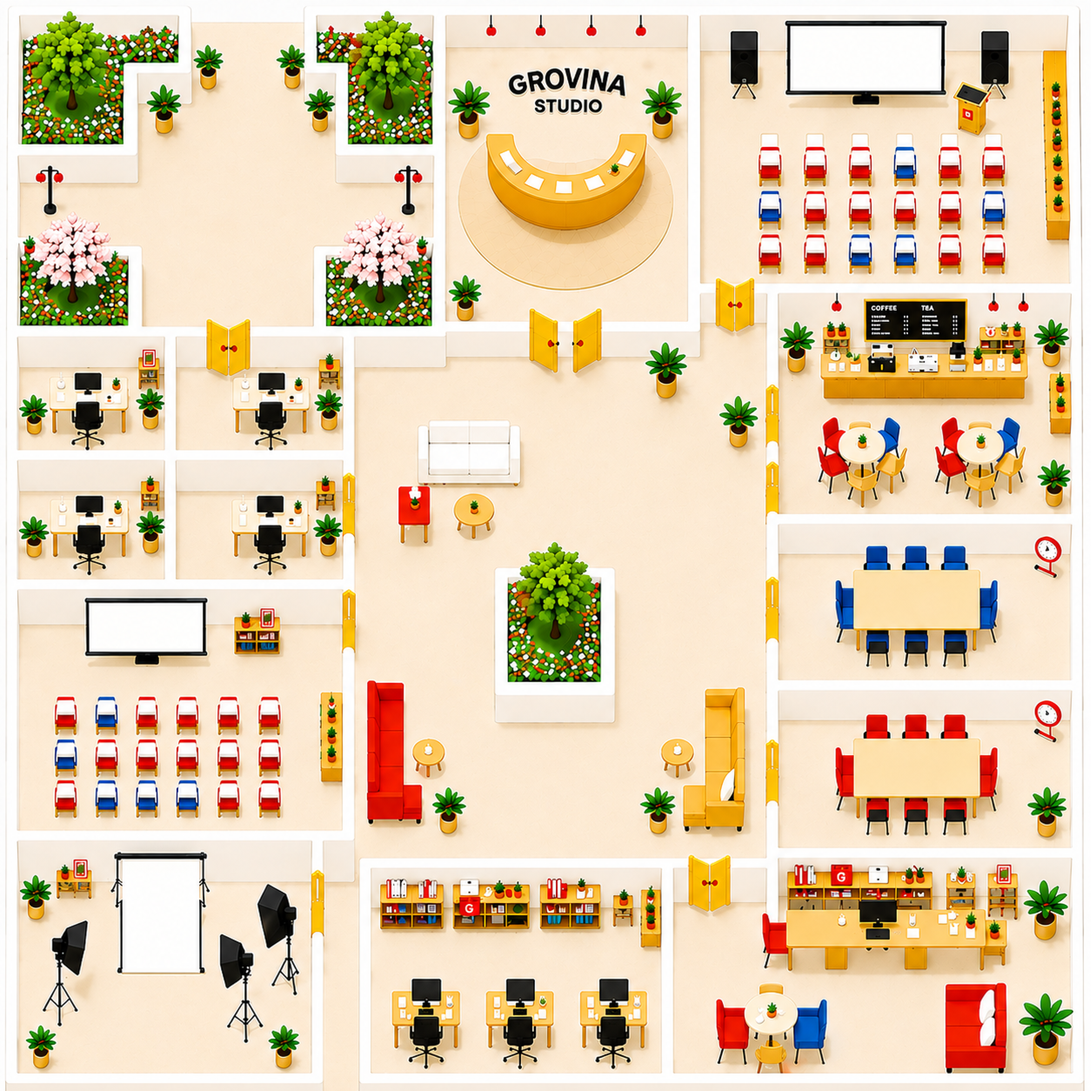
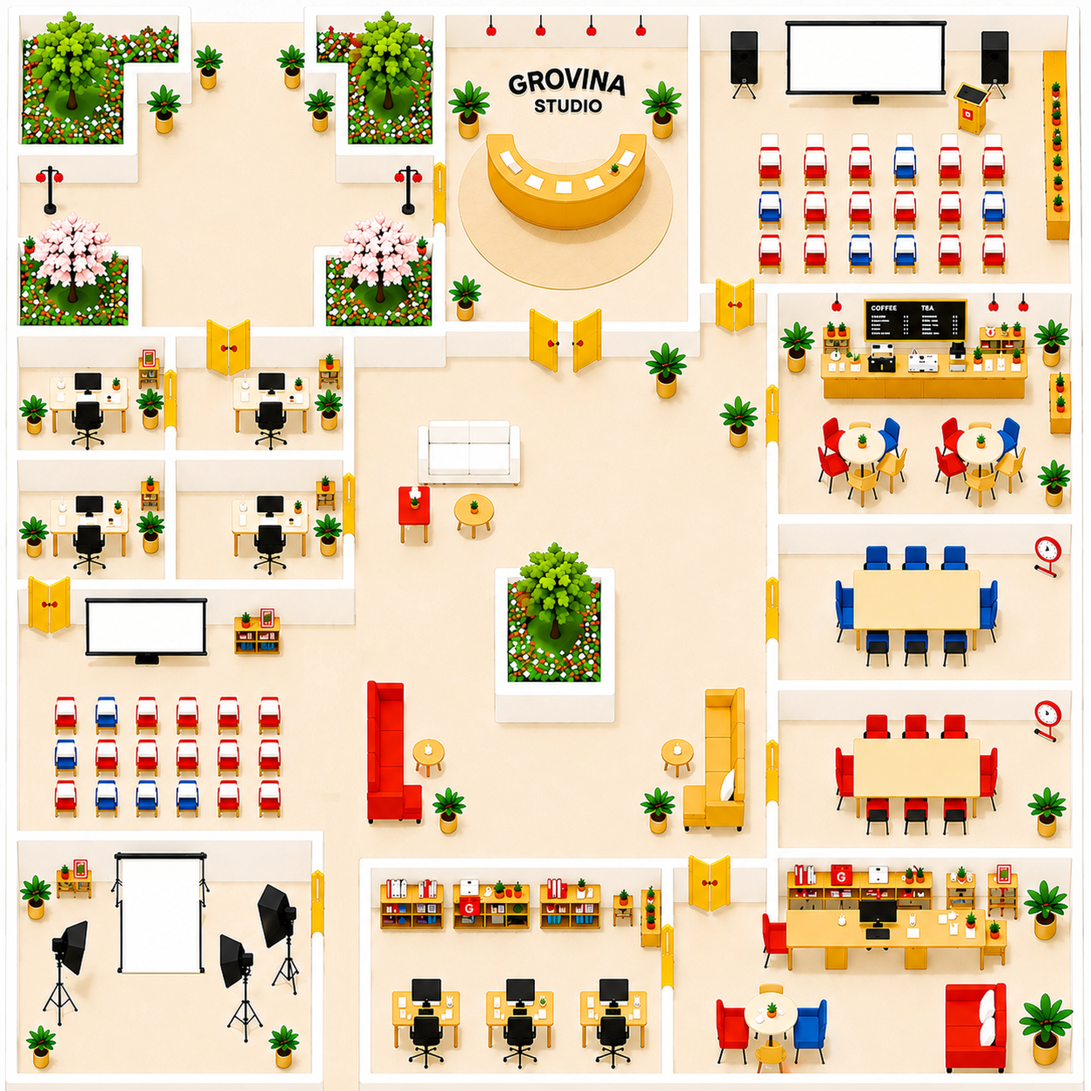
アバター追加

diff --git a/components/AvatarSpace.tsx b/components/AvatarSpace.tsx
@@ -37,7 +37,7 @@ import ScreenShareButton from "./ScreenShareButton";
 import VideoCallButton from "./VideoCallButton";
 import LogoutButton from "./auth/LogoutButton";
 
-const ROOM_NAME = "avatar-room-main";
+const DEFAULT_ROOM_NAME = "Grovina Office";
 const COLORS = [
   "#F97316",
   "#3B82F6",
@@ -79,6 +79,10 @@ export default function AvatarSpace({ initialName }: Props) {
   // auth.uid()がRLS側で常にnullになっていた)。useStateの遅延初期化で
   // マウント時に一度だけ生成する。
   const [supabase] = useState(() => createClient());
+  // ---- ルーム選択(Googleログイン後、最初に必ずここへ遷移する) ----
+  const [roomSelected, setRoomSelected] = useState(false);
+  const [roomNameInput, setRoomNameInput] = useState(DEFAULT_ROOM_NAME);
+  const [roomName, setRoomName] = useState(DEFAULT_ROOM_NAME);
   const [joined, setJoined] = useState(false);
   const [nameInput, setNameInput] = useState(initialName ?? "");
   const [selectedAvatar, setSelectedAvatar] = useState(AVATAR_IMAGES[0]);
@@ -221,6 +225,24 @@ export default function AvatarSpace({ initialName }: Props) {
       }
     })();
   }, [joined]);
+
+  // ---- ルーム選択:ルーム名を確定してアバター選択画面へ進む ----
+  const handleSelectRoom = useCallback(() => {
+    setRoomName(roomNameInput.trim() || DEFAULT_ROOM_NAME);
+    setRoomSelected(true);
+  }, [roomNameInput]);
+
+  // ---- 退出:バーチャル空間から抜けてルーム選択画面に戻る ----
+  // joinedをfalseにすることで、Realtimeチャンネルの購読解除・マイクや
+  // 画面共有ストリームの解放・WebRTC接続のクローズなど、既存の
+  // 「joined依存のエフェクトのクリーンアップ」が一通り走る。playersは
+  // ここで明示的に空にしておかないと、次に入室した際に前のルームの
+  // 参加者が残ったまま表示されてしまう。
+  const handleLeaveRoom = useCallback(() => {
+    setJoined(false);
+    setPlayers({});
+    setRoomSelected(false);
+  }, []);
 
   // ---- 入室処理 ----
   const handleJoin = useCallback(() => {
@@ -978,7 +1000,7 @@ export default function AvatarSpace({ initialName }: Props) {
     const connectChannel = () => {
       if (cancelled) return;
 
-      const channel = supabase.channel(ROOM_NAME, {
+      const channel = supabase.channel(`avatar-room-${roomName}`, {
         config: { presence: { key: selfId.current } },
       });
       channelRef.current = channel;
@@ -1265,6 +1287,7 @@ export default function AvatarSpace({ initialName }: Props) {
     };
   }, [
     joined,
+    roomName,
     getOrCreatePeerConnection,
     flushPendingCandidates,
     ensureLocalVideoAttached,
@@ -1858,13 +1881,44 @@ export default function AvatarSpace({ initialName }: Props) {
     setSettingsOpen(false);
   }, [settingsNameInput, settingsAvatar, settingsStatus]);
 
+  // ---- ルーム選択画面(Googleログイン後、最初に必ずここへ来る) ----
+  if (!roomSelected) {
+    return (
+      <div className="flex h-full w-full items-center justify-center overflow-hidden bg-slate-900 px-4">
+        <div className="w-full max-w-sm rounded-xl bg-white p-6 shadow-xl">
+          <h1 className="mb-1 text-lg font-bold text-slate-800">
+            ルームを選択
+          </h1>
+          <p className="mb-4 text-sm text-slate-500">
+            入室するルーム名を入力してください
+          </p>
+
+          <input
+            autoFocus
+            value={roomNameInput}
+            onChange={(e) => setRoomNameInput(e.target.value)}
+            onKeyDown={(e) => e.key === "Enter" && handleSelectRoom()}
+            placeholder={DEFAULT_ROOM_NAME}
+            className="mb-4 w-full rounded-lg border border-slate-300 px-3 py-2 text-sm outline-none focus:border-slate-500"
+          />
+          <button
+            onClick={handleSelectRoom}
+            className="w-full rounded-lg bg-slate-900 py-2 text-sm font-semibold text-white hover:bg-slate-700"
+          >
+            入室
+          </button>
+        </div>
+      </div>
+    );
+  }
+
   // ---- 入室前:名前入力・アバター選択モーダル ----
   if (!joined) {
     return (
       <div className="flex h-full w-full items-center justify-center overflow-hidden bg-slate-900 px-4">
         <div className="w-full max-w-sm rounded-xl bg-white p-6 shadow-xl">
           <h1 className="mb-1 text-lg font-bold text-slate-800">
-            Grovina Officeに入室
+            {roomName}に入室
           </h1>
           <p className="mb-4 text-sm text-slate-500">
             アバターを選んで、表示する名前を入力してください(空欄の場合はゲスト表示になります)
@@ -1952,7 +2006,7 @@ export default function AvatarSpace({ initialName }: Props) {
             />
           </div>
           <span className="hidden text-sm font-semibold sm:inline">
-            Grovina Office
+            {roomName}
           </span>
         </div>
 
@@ -2385,24 +2439,37 @@ export default function AvatarSpace({ initialName }: Props) {
               </div>
             )}
           </div>
-        </div>
-      </div>
 
-      {/* チャット入力 */}
-      <div className="flex items-center gap-2 border-t border-slate-700 bg-slate-900 px-4 py-2">
-        <input
-          value={chatInput}
-          onChange={(e) => setChatInput(e.target.value)}
-          onKeyDown={(e) => e.key === "Enter" && sendChat()}
-          placeholder="メッセージを入力してEnter(PCは WASD / 矢印キー、スマホは左下のボタンで移動)"
-          className="flex-1 rounded-lg border border-slate-600 bg-slate-800 px-3 py-2 text-sm text-white outline-none focus:border-slate-400"
-        />
-        <button
-          onClick={sendChat}
-          className="rounded-lg bg-slate-700 px-4 py-2 text-sm font-semibold text-white hover:bg-slate-600"
-        >
-          送信
-        </button>
+          {/* 退出:ルーム選択画面へ戻る */}
+          <div className="mt-3">
+            <button
+              onClick={handleLeaveRoom}
+              className="w-full rounded-lg bg-red-900/60 px-3 py-2 text-xs font-semibold text-red-100 hover:bg-red-900"
+            >
+              🚪 退出
+            </button>
+          </div>
+
+          {/* チャット入力(以前は画面下部にあったが、サイドバー最下部へ移動した) */}
+          <div className="mt-auto border-t border-slate-700 pt-3">
+            <p className="mb-2 text-[10px] leading-relaxed text-slate-400">
+              移動:PCは WASD / 矢印キー、スマホは左下のボタン
+            </p>
+            <input
+              value={chatInput}
+              onChange={(e) => setChatInput(e.target.value)}
+              onKeyDown={(e) => e.key === "Enter" && sendChat()}
+              placeholder="メッセージを入力してEnter"
+              className="mb-2 w-full rounded-lg border border-slate-600 bg-slate-800 px-3 py-2 text-sm text-white outline-none focus:border-slate-400"
+            />
+            <button
+              onClick={sendChat}
+              className="w-full rounded-lg bg-slate-700 px-4 py-2 text-sm font-semibold text-white hover:bg-slate-600"
+            >
+              送信
+            </button>
+          </div>
+        </div>
       </div>
 
       {/* スマホ用移動ボタン(sm以上の画面では非表示) */}
